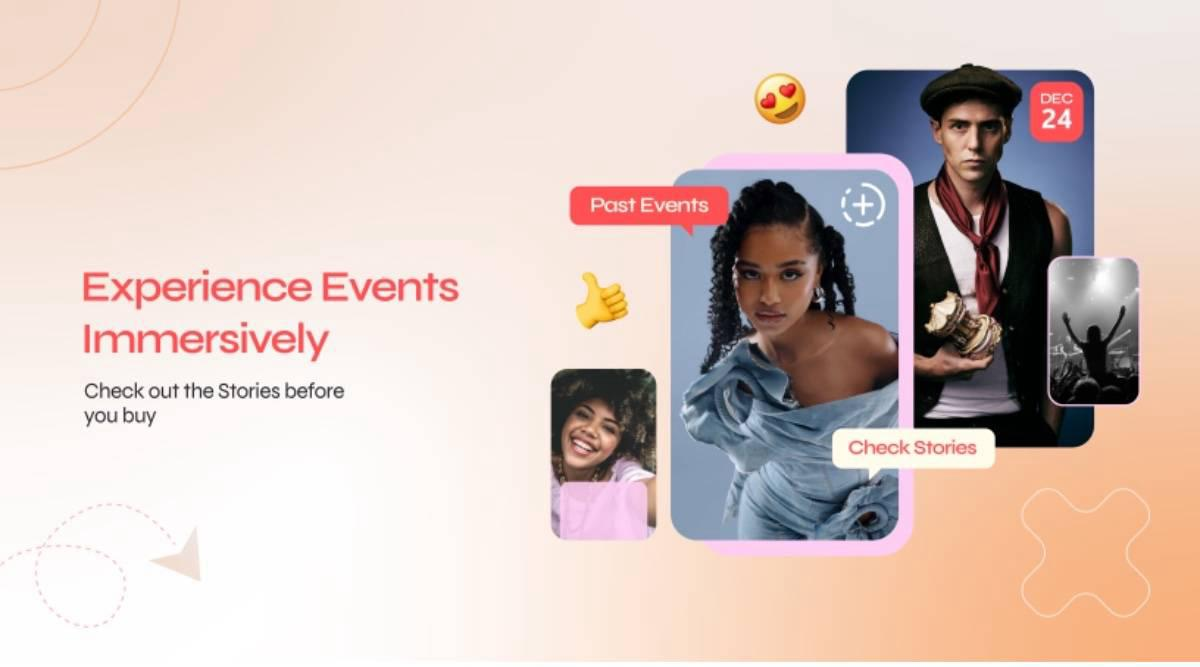
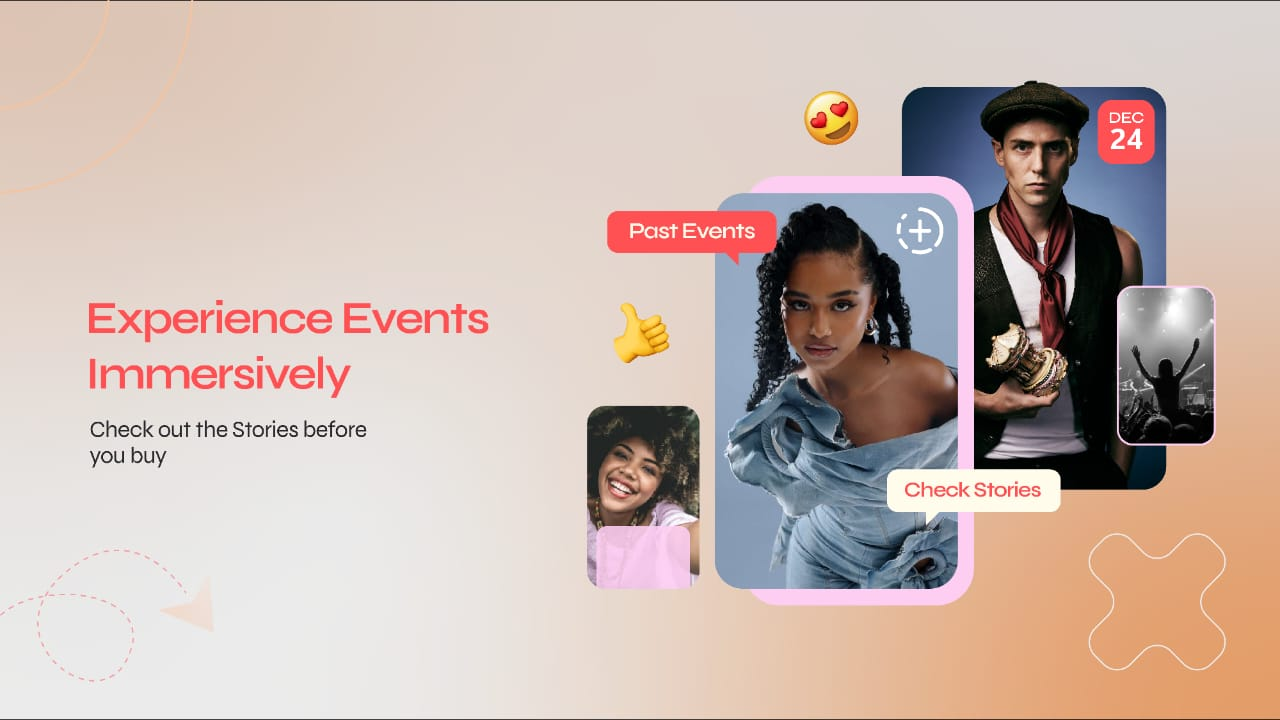
update hero carousel

diff --git a/src/components/home/Hero.tsx b/src/components/home/Hero.tsx
@@ -166,7 +166,7 @@ function Hero() {
               <div>
                 <img
                   src={c1}
-                  className="w-full h-[15rem] md:h-[28rem] object-fill"
+                  className="w-full h-[15rem] md:h-[28rem] object-cover"
                   alt=""
                 />
               </div>
@@ -175,7 +175,7 @@ function Hero() {
               <div>
                 <img
                   src={c2}
-                  className="w-full h-[15rem] md:h-[28rem] object-fill"
+                  className="w-full h-[15rem] md:h-[28rem] object-cover"
                   alt=""
                 />
               </div>
